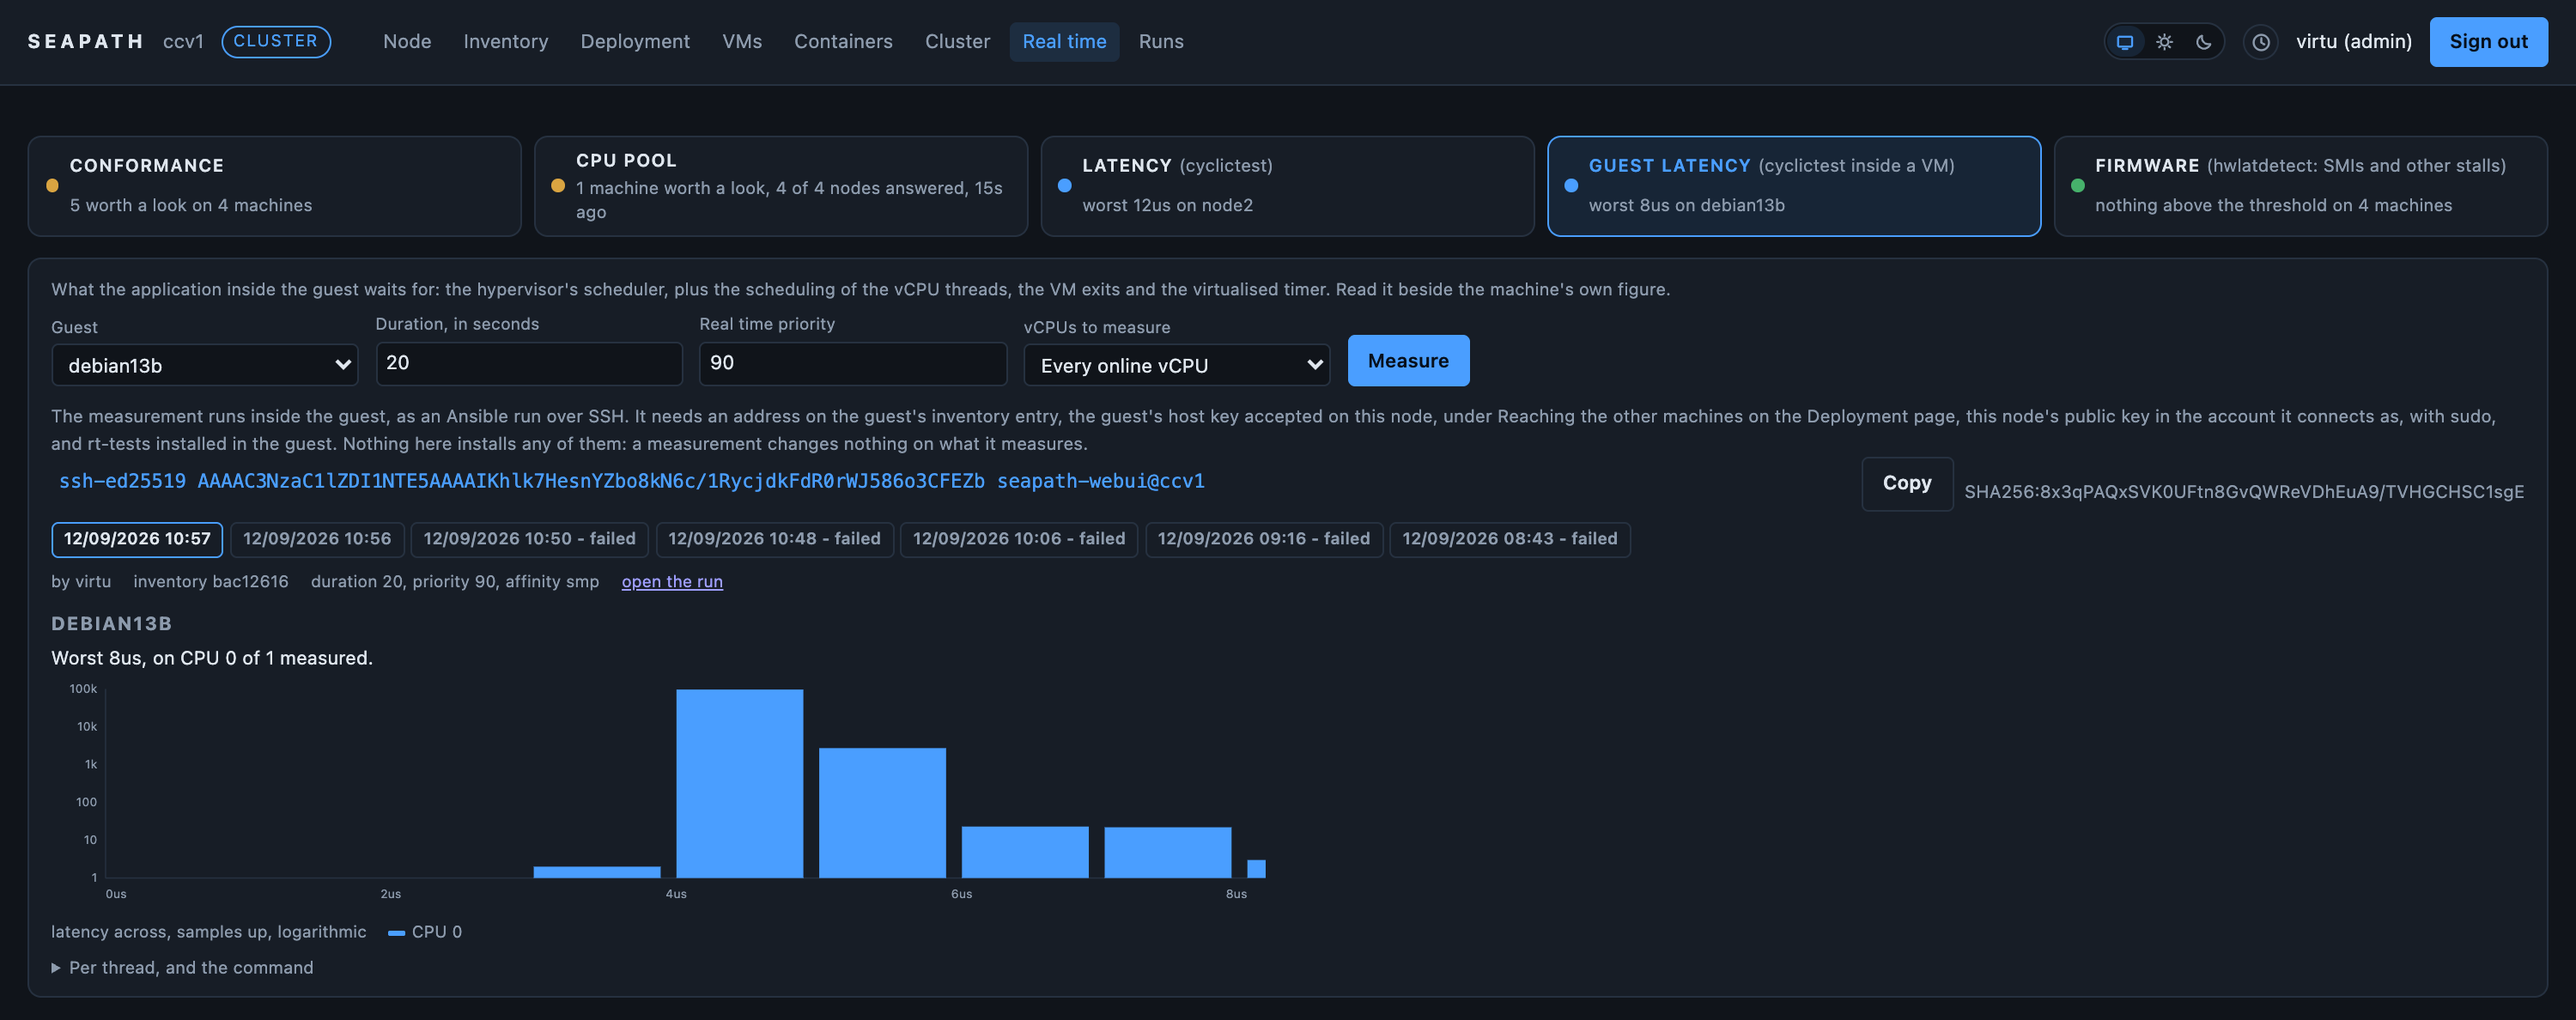
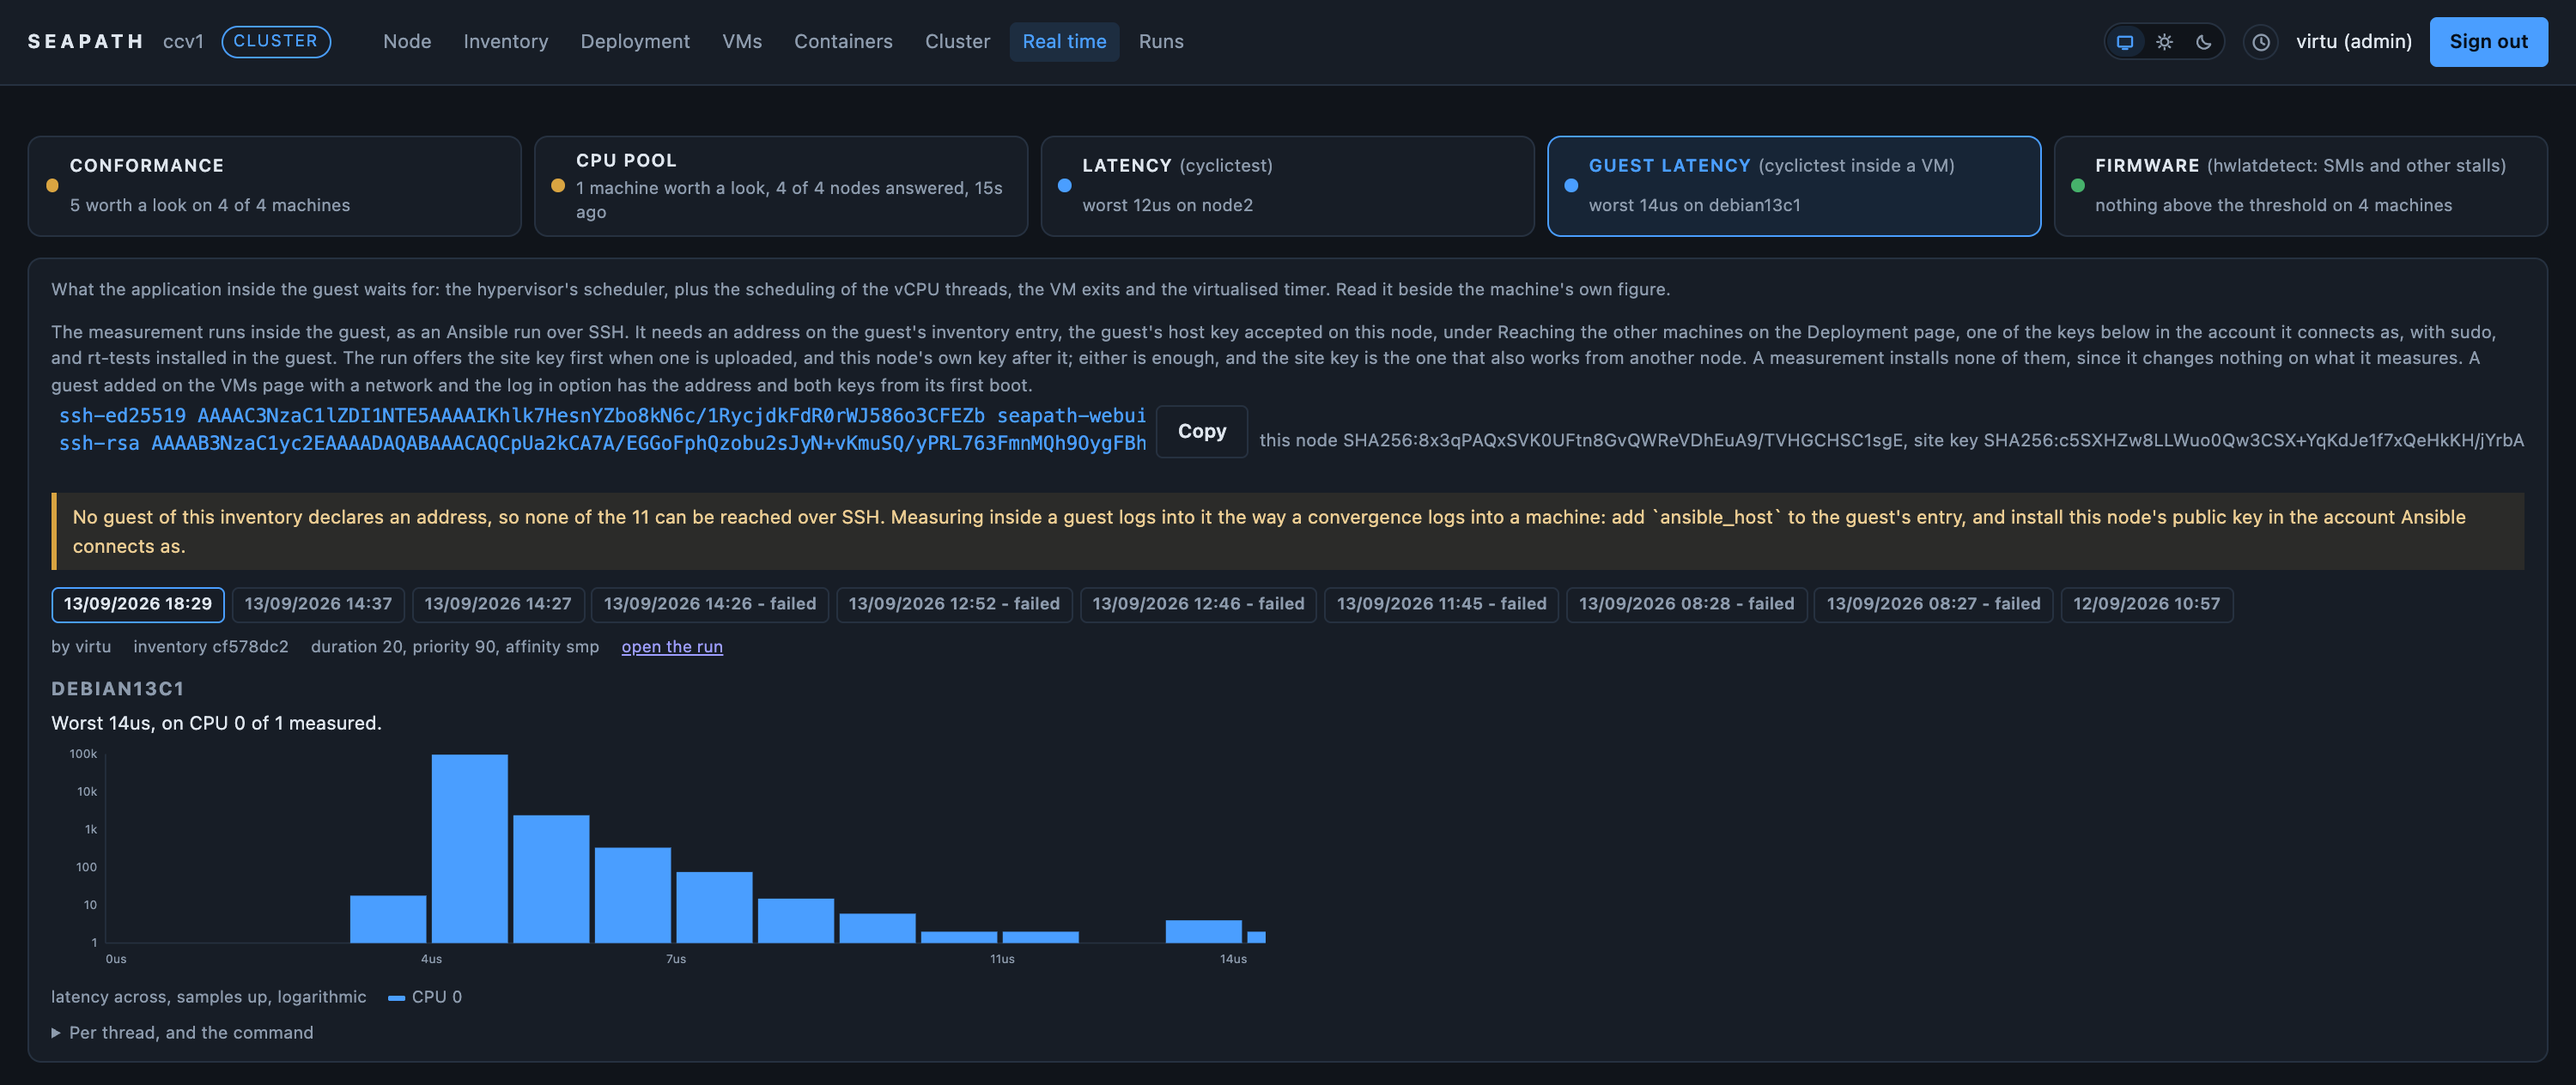
docs: the README shows the run window, the machine choice and cloud-init
The README had not followed the pages since 0.3.4x. It now describes
choosing the machines a run plays, the run watched in a window over the
page that launched it, the network and cloud-init section of Add a VM,
Disable, Enable, Delete and Forget on the VMs page, the clock and PTP
rows of the conformance matrix and ignoring an answer there, and the
panels drawn from what the browser last read.

Reshoot the Deployment, VMs and Add a VM images and the five Real time
views, and add two: the Choose machines window and a run window. The
run window replays a finished deploy_vms_cluster, so no playbook was
launched for it. docs/screenshots.md records how the three windows are
opened and framed.

diff --git a/README.md b/README.md
@@ -105,7 +105,21 @@ to a machine does, by an apply.
 
 ![The code this node runs: the collection a run executes, and the version of this service the inventory asks for](img/5-deployment-code.png)
 
-![The VMs page: one row per guest, what deploys it, whether it is running and where, and what the next run does to it](img/6-vms.png)
+![Choosing the machines a run plays: the groups, the machines and the guests of the inventory as checkboxes, and the machines the boxes resolve to](img/5-1-deployment-machines.png)
+
+A run plays what its playbook names, less the guests of the `VMs` group: a
+site's guests are appliances and vendor images as often as SEAPATH VMs, and the
+first one refusing a connection would end the convergence of the machines the
+operator came for. **Choose machines**, beside Apply, narrows a run before it
+is launched. The window lists the groups, the machines and the guests of the
+inventory as checkboxes, because `--limit` takes a union and converging two
+hypervisors should be one launch, and the line under them names the machines
+the current boxes resolve to. Nothing checked is the playbook's own scope. A
+machine this node cannot reach is marked there, and narrowing to machines that
+answer is how a node whose neighbour is down still converges itself. See D39 in
+[docs/decisions.md](docs/decisions.md).
+
+![The VMs page: one row per guest, what deploys it, whether it is running and where, its address, and what the next run does to it, under the All, Cluster and Standalone filter](img/6-vms.png)
 
 **VMs** is the guests, and it exists because a guest is one object whose parts
 sit on three other pages. Its definition is an entry of the `VMs` group in the
@@ -114,7 +128,10 @@ around that file, and what it is doing right now is one line of the Pacemaker
 resource table. The page puts them on one row: the guest, whether it is running
 and where, whether a deployment would find the two files it names, and what the
 next run does to it, `force` being the word that matters there since the roles
-destroy and recreate a guest that carries it.
+destroy and recreate a guest that carries it. The address a run reaches it at
+sits beside them, with whether the entry carries a cloud-init seed, and a
+switch above the table shows all the guests, the cluster ones or the standalone
+ones, with a count on each.
 
 Where an inventory describes a cluster and a standalone machine at once, each
 guest says which of the two creates it, through `cluster_VMs` and
@@ -124,11 +141,32 @@ its entry may carry, and whether it has an RBD image to hold metadata. A file
 with one flat group says nothing and its guests take the file's own mode, which
 is every inventory written before those groups existed.
 
-![Adding a VM: the name, where it is deployed, the disk image and the libvirt XML, over the folded placement options](img/6-1-add-vm.png)
+![Adding a VM: the name, where it is deployed, the image and the template this node already holds, and the network cloud-init gives the guest on its first boot](img/6-1-add-vm.png)
 
-Adding a VM is the act it performs whole. Name the
-guest, pick a disk image and a libvirt XML, and the page uploads both, commits
-the entry and launches the deployment. Folded under those three is what
+Adding a VM is the act it performs whole. Name the guest, give it a disk image
+and a libvirt XML, and the page commits the entry and launches the deployment.
+Each of the two files is either uploaded for this guest or picked from what
+this node already holds, since one qcow2 built with cloud-init and SEAPATH's
+`guest.xml.j2` serve every guest of a site once what makes each guest different
+lives in its entry.
+
+That difference is the network section. It writes three variables with three
+readers: `bridges`, the interface the template renders; `cloud_init`, the
+mapping the upstream `cloud_init_seed` role builds the guest's NoCloud seed
+from, with its address, gateway, resolvers, hostname and the packages it
+installs on its first boot; and `ansible_host`, where a later run reaches
+inside the guest. The address is typed once and written twice. The MAC the seed
+matches the interface by is generated in the QEMU range when none is given. A
+network that could not work is refused before it is written: an address with no
+prefix, a gateway outside the guest's network, an address or a MAC another host
+of the file already holds. Two boxes, checked by default, make the guest
+reachable by the runs that follow: this node's public key, and the site key
+where one is held, go into the seed for the `ansible` account, and the entry
+accepts the guest's host key on the first connection. The seed is built by the
+role inside this container, like on any control machine, which is why the
+image carries `cloud-localds`. See D48 in [docs/decisions.md](docs/decisions.md).
+
+Folded under all of that is what
 `cluster_vm create` is given: placement, priority, live migration and its
 timeouts, colocation, disk bus, the pinning profile. They are asked there
 because each is written once into the guest's image metadata, and changing one
@@ -138,6 +176,19 @@ to the store git does not carry, the XML committed with the inventory, the
 guest a splice into the file checked like every other write, and a whole
 playbook of the collection. The operator is spared the trip through two pages
 and a group name they have no reason to know.
+
+![A run watched over the page that launched it: the playbook, its state, the task being played and the task stream down to the recap](img/6-2-vm-run.png)
+
+The run that follows opens in a window over the page, here the VMs page the
+guest was added from, with the playbook, its state, the task being played and
+the same task stream the Runs page draws, so the operator reads the result of
+their own action on the page they launched it from.
+Closing the window stops this browser watching and nothing else: the run
+belongs to the service, keeps going and lands in the history. A run that ends
+under an open window has the panels of the page read again, since what the
+operator stayed for is what the run changed in the table underneath. Every
+action of this UI that is a playbook opens the same window. See D43 in
+[docs/decisions.md](docs/decisions.md).
 
 Editing a guest's metadata is there too. A guest's Pacemaker configuration
 lives as metadata on its RBD image, `vm_manager` writes those keys at creation
@@ -157,6 +208,24 @@ the upstream module, over the SSH path a convergence uses, under the same lock
 so a start cannot slip in under a convergence. The confirmation names the guest
 and says what stopping it does, because on these machines what a guest serves
 is a substation function.
+
+A cluster guest can also be taken out of the cluster and put back. **Disable**
+is `cluster_vm disable`, run the same way: the guest is stopped and its
+Pacemaker resource removed, while its RBD image, its metadata and its inventory
+entry stay, and the row then says it is out of the cluster and that a
+deployment leaves it alone. **Enable** builds the resource back from the image.
+A disabled guest can be deleted for good, by an administrator: the entry is
+committed out of the inventory first, so no deployment creates the guest again,
+then `cluster_vm remove` deletes its RBD group, images and metadata. The disk
+image and the XML stay, since another guest may be made from them.
+
+Once a guest exists, the lines that created it are read by nobody: the roles
+read `vm_disk`, `vm_template`, `cloud_init` and their neighbours only for a
+guest the hypervisor does not have yet. The Creation column names those files
+while a run would still read them, and otherwise offers **Forget**, which takes
+them out of the guest's entry as one commit and no run, leaving the entry with
+the variables later runs read. See D49 in
+[docs/decisions.md](docs/decisions.md).
 
 ![The Containers page: one row per quadlet, who manages it, the machine it is on and the state of its unit](img/7-containers.png)
 
@@ -205,7 +274,11 @@ spinner. The VMs, Containers and CPU pool panels carry the same control, and a
 switch in the top bar takes that same reading every ten seconds until it is
 turned off. It holds while the tab is hidden, while the panel is in a view
 that is not open, and while a dialog is waiting on an answer about a machine,
-so a browser left open overnight asks the substation nothing. What this page
+so a browser left open overnight asks the substation nothing. Coming back to a
+page, each panel is drawn at once from what this browser last read, with the
+age of that reading in the line the spinner used to hold, and its buttons stay
+held until the fresh reading lands, because the row an operator aims at may
+have moved in the meantime. What this page
 offers besides is placement, at both scopes. **Refresh** on a resource clears
 the operation history Pacemaker keeps for it, so a failure that has been dealt
 with stops holding it down, and a second button does the same for every
@@ -230,7 +303,7 @@ stays an inventory change and a run.
 
 **Real time** answers whether the machines came out of a convergence with the
 tuning they were told to have. One row per check, one column per machine: each
-node publishes its own tuning through the exporter it already runs, so ten
+node publishes its own tuning through the exporter it already runs, so twelve
 checks answer for the whole cluster from the page an operator has open, and no
 SSH command is issued to draw them. Opening a row says what each machine
 answered and what its own inventory entry asks of it. The commonest finding is
@@ -242,6 +315,21 @@ both running on the machines through Ansible rather than inside this container:
 firmware took without telling the kernel. A machine that passes every check and
 still misses its deadline is either a firmware problem or a configuration one,
 and the second measurement is the only thing that separates them.
+
+Two of the rows are about time, because every sampled value carries the clock
+of the machine that produced it. Clock synchronisation reads the flag chrony
+maintains under timemaster, with its estimated error, from the timex collector
+of `node_exporter`. PTP reads the IEC 61850-9-2 SmpSynch level `ptpstatus`
+publishes, 2 for a grandmaster traceable to a global reference, with the
+grandmaster, its clock class and the offset. See D40 in
+[docs/decisions.md](docs/decisions.md).
+
+A site sometimes accepts a finding on purpose, hyperthreading left on after it
+was measured being the usual one, and a tab that stays amber for it hides the
+next finding worth a look. A right click on an answer ignores it on that
+machine, and on a check's name for any machine or all of them. The answer is
+still drawn, faded, and left out of the tab's count and colour, which says how
+many were ignored. The choice is kept by this browser and written nowhere else.
 
 The CPU pool has a view of its own, holding **every machine the inventory
 declares**, read from the same request as the tuning: which core carries which
@@ -256,7 +344,7 @@ It is the one page laid out as an application rather than as a document. Five
 views, Conformance, CPU pool, Latency, Guest latency and Firmware, and a bar of
 tabs that carries what each of them found: its worst status as a dot, and the one line
 its panel would lead with. The glance costs no click, and the view behind the
-tab has the whole screen, which is what ten checks across four machines of
+tab has the whole screen, which is what twelve checks across four machines of
 forty-eight threads need. Every reading is fetched before the first tab is
 drawn, so switching asks the machines for nothing. See D24, D26, D27 and D28 in
 [docs/decisions.md](docs/decisions.md).
@@ -288,8 +376,11 @@ and the run is narrowed to it, because loading every guest at real time priority
 at once measures the contention between the measurements. What a guest needs to
 be measurable is said on the panel, with this node's public key beside it to
 copy: an address, that key in the account Ansible connects as with sudo, and
-`rt-tests` installed. This service installs none of the three, because writing
-inside a VM would be configuring a machine behind Ansible's back. See D41 in
+`rt-tests` installed. This service writes none of the three inside a VM, since
+that would be configuring a machine behind Ansible's back. A guest added from
+the VMs page gets all three through its entry: the address, the key and the
+packages are written into its cloud-init seed, which the upstream role builds
+and the guest applies on its first boot. See D41 and D48 in
 [docs/decisions.md](docs/decisions.md).
 
 ![The Real time page, Guest latency: what cyclictest measured inside one guest, over the form and this node's public key that make a guest measurable](img/11-4-realtime-guest-latency.png)
@@ -339,9 +430,11 @@ to be run on a real machine.
 
 M2 is the VMs and the containers, and most of it is in. For a guest, the `VMs`
 group is read as guests rather than as machines, the page joins what the
-inventory declares to what Pacemaker reports, adding one is one act, starting
-and stopping one are runs, the RBD metadata is read and edited from the same
-page, and a guest can be sent to a named node and given back to the cluster.
+inventory declares to what Pacemaker reports, adding one is one act that gives
+it its network through a cloud-init seed, starting and stopping one are runs,
+the RBD metadata is read and edited from the same page, a guest can be sent to
+a named node and given back to the cluster, disabled, enabled and deleted, and
+its entry can forget how it was created.
 The snapshots follow the same shape. For a container,
 the quadlets the inventory uploads are read back with the unit each machine
 made of them, declaring one writes the three variables the upstream roles

diff --git a/docs/screenshots.md b/docs/screenshots.md
@@ -107,4 +107,22 @@ came from the build you meant, since a check turns green only once the fix it
 covers has shipped (for example clock synchronisation went green in 0.3.80).
 
 The other pages are the two-pane document layout, not this paned one, so they
-are captured full-page and do not need the per-view clip.
+are captured full-page and do not need the per-view clip. Clip them to the
+footer's bottom plus 12 px, so the empty ground a tall viewport leaves under a
+short page is not in the image.
+
+## Windows over a page
+
+Three images show a window rather than a page. Use a viewport tall enough for
+the window to fit (2600 px does), open it, and clip to the full 1500 px width
+from 32 px above the `.modal-body` to 32 px below it, so the dimmed page
+shows at both sides.
+
+| file                           | how the window is opened                                                                                                                |
+| ------------------------------ | --------------------------------------------------------------------------------------------------------------------------------------- |
+| `5-1-deployment-machines.png`  | Deployment, the first **Choose machines**, with `node1` and `node2` checked. Close with Cancel.                                          |
+| `6-1-add-vm.png`               | VMs, **Add a VM**: name `rtu-bay3`, a held qcow2 and `guest.xml.j2` picked, bridge `br0`, address `192.168.110.43/24`, gateway and resolver `192.168.110.1`, packages `qemu-guest-agent, rt-tests`. Never press Add and deploy. |
+| `6-2-vm-run.png`               | VMs, then `RunWatch.open("<id>")` from `page.evaluate`, with the id of a finished `deploy_vms_cluster` run from `GET api/v1/runs`, and 8 s for the stream to replay. |
+
+The run window replays a run that already happened, so no playbook is launched
+to take this picture: these are live substation hypervisors.
